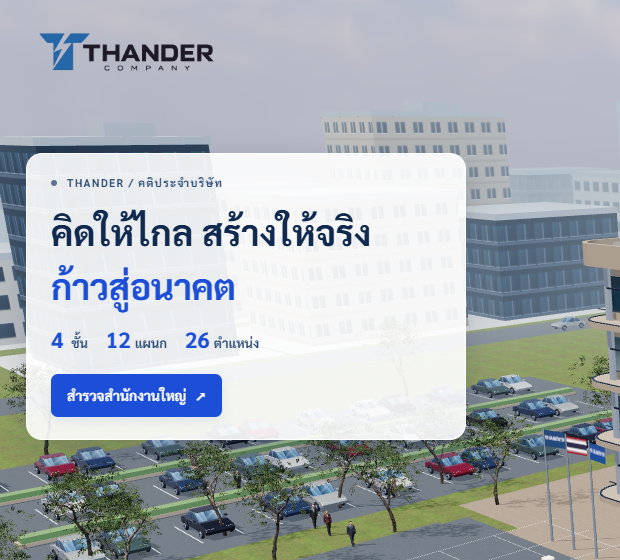
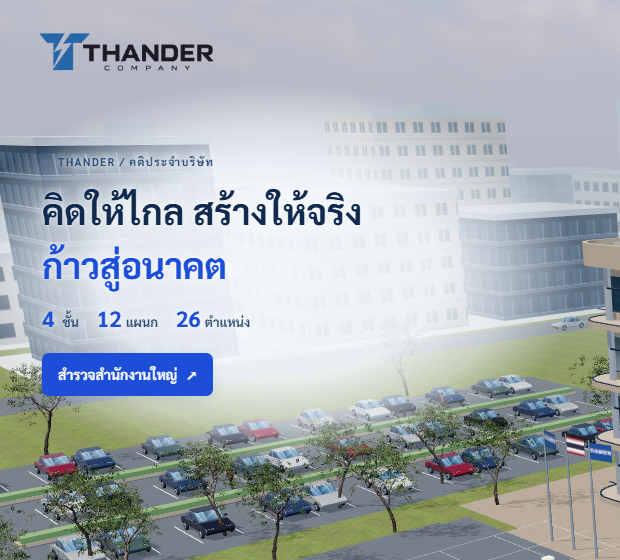
THANDER: hero without white box

diff --git a/Portfolio.html b/Portfolio.html
@@ -3445,7 +3445,7 @@ a:focus-visible, button:focus-visible, input:focus-visible { outline: 2px solid 
           <div style="padding:1.75rem;">
             <span style="display:inline-block;font-size:0.68rem;font-weight:700;letter-spacing:0.12em;color:#93bfff;border:1px solid #93bfff44;border-radius:99px;padding:0.25rem 0.75rem;margin-bottom:1rem;">3D Campus · Workflow · CEO Workspace</span>
             <h3 class="bento-title" style="margin-bottom:0.65rem;">THANDER Company</h3>
-            <p style="font-size:0.9rem;line-height:1.85;color:rgba(248,250,252,0.72);margin:0 0 1.25rem;">สำนักงานใหญ่ 3D ออกแบบใหม่ระดับบริษัทชั้นนำ 4 ชั้น 12 ฝ่าย 26 ตำแหน่ง (แผนกละ 2 คน รับหน้าที่เดิมครบ 66 หน้าที่) รอบบริษัทมีเมือง 50 ตึกพร้อมถนน หน้าต่างเปิดไฟยามค่ำคืน ต้นไม้ใบหนาเปลี่ยนได้ 4 ฤดู (ใบไม้ผลิ ร้อน ใบไม้ร่วง หนาว) และฤดูหนาวมีหิมะตก เพิ่มฤดูฝนแบบไทย (ฝนตก ถนนเปียก ฟ้าครึ้ม) รถวิ่งบนถนนรอบเมือง กลางวัน/กลางคืนตามเวลากรุงเทพจริง และโหมดประหยัดสำหรับมือถือ เปิดเว็บมามีแอนิเมชันจัดเต็ม: ม่านโลโก้แยกบน-ล่างพร้อม % โหลดจริง กล้องกวาดโค้งลงจากฟ้าเข้าหาบริษัท ระหว่างทางเมืองและต้นไม้งอกขึ้นจากพื้น ชั้นตึกหล่นกระแทกทีละชั้นพร้อมคลื่นกระแทกและจอสั่น สายฟ้าฟาดลงเมืองตลอดทาง พอถึงตึกสายฟ้าลูกใหญ่ฟาดลงหลังคาพร้อมจอขาววาบ (เตรียมและคอมไพล์เอฟเฟกต์ไว้ก่อนหลังม่าน เล่นได้ไม่ค้าง) แล้วคติบริษัทและตัวเลข 4 ชั้น · 12 แผนก · 26 ตำแหน่ง นับขึ้น บนการ์ดพื้นหลังที่อ่านง่ายทั้งกลางวันและกลางคืน ขนาดห้องตามมาตรฐานออฟฟิศจริง มีล็อบบี้ ห้องประชุมชั้นละห้อง (12/8/6 ที่นั่ง) ผนังห้องและผนังอาคารแบบทึบ Phone Booth และ Café ทุกชั้น พนักงานเดินไปมาระหว่างแผนกตลอดเวลา และหน้าแรกมีคนเดินเข้า–ออกอาคาร พนักงานทุกคนมีชื่อและชื่อเล่น (สมมติ) บนป้ายตั้งสองหน้าขนาดใหญ่ พนักงานใช้โมเดลคน 3D แบบมีโครงกระดูกและผิวต่อเนื่อง มีสรีระ ใบหน้า ผิวหนัง ทรงผม สูท มือและรองเท้า จาก Microsoft Rocketbox (MIT) ตัวนั่งและตัวเดินคงรูปลักษณ์คนเดียวกัน พร้อมต้นไม้ 3D Tree Small 02 จาก Poly Haven (CC0) ทั้ง 51 ต้น มีลำต้น กิ่งและใบที่ผู้สร้างจัดทำจริง สลับความละเอียด 3 ระดับตามระยะกล้อง ผนัง พื้นปู และหญ้าใช้วัสดุภาพถ่ายพร้อมแผนที่ความนูนและความหยาบ กระจกสะท้อนภูมิทัศน์ในฉากและใช้แสงท้องฟ้า HDRI รถตัวถังโค้งพร้อมล้อ กระจก และไฟ ถนนแอสฟัลต์มีขอบทางและท่อระบายน้ำ ผิวหิน คอนกรีต ไม้ หญ้า และกระจกอาคารมีรายละเอียด แสงและเงาช่วยแสดงความลึก และมีบทสนทนาขึ้นเป็นข้อความทุกครั้งที่เดินมารับหรือส่งงานกับ CEO พร้อมคติ “คิดให้ไกล สร้างให้จริง ก้าวสู่อนาคต” กลับเป็นสองบรรทัดขนาดเล็กลง ตัวอักษรนูนสามมิติแบบไม่มีกรอบ พนักงานทั้ง 66 บทบาททุกแผนกใช้หลัก “หา · บอก · ปล่อย” ครบ 9 ข้อร่วมกัน เปิดอ่านในข้อมูลพนักงานและ Workflow พร้อมคำสั่ง AI ที่ทวนโจทย์ ใช้ตัวอย่าง ตรวจตามจุดสำคัญ และสรุปส่งต่องานยาว เพิ่มประตูบานพับ 68 บานในห้องทำงานและพื้นที่ปิด พนักงานที่มาเยือนจะหยุดเคาะประตู ขออนุญาต รอผู้รับผิดชอบตอบแล้วจึงเปิดเข้าไป CEO ตอบอนุญาตเข้าห้องอัตโนมัติ และประตูปิดหลังเดินผ่าน ปรับอาคารเป็น 44×32 เมตร ห้องและโต๊ะมีขนาดตามจำนวนคน เพิ่มฝ่ายครีเอทีฟและสื่อชั้น 2 พร้อมกราฟิกดีไซเนอร์และนักตัดต่อวิดีโอ มีโต๊ะ จอออกแบบและไทม์ไลน์ประจำตัว พับกรอบรายละเอียดเพื่อเห็นผังภายในครบทุกชั้น เปิดดูแผนกและหน้าที่ได้เมื่อต้องการ มีคู่มือขั้นตอนการทำงานแบบทางการ 8 หัวข้อ (สถานะงาน หน้าที่ทุกฝ่าย วิธีเขียนโจทย์ แบบทดสอบ) และไดอะแกรม SVG อธิบายการทำงาน มีระบบฝากอนุมัติให้ผู้รักษาการ (G-01) ใช้ AI ตรวจและอนุมัติงานทั่วไปแทนเมื่อ CEO ไม่อยู่ โดยงานสำคัญ 7 เรื่องและงานกฎหมายยังรอ CEO และ CEO ยกเลิกการอนุมัติแทนได้ทุกฝ่าย ห้อง CEO THANDER ชั้น 1 มี CEO ผู้ชายประจำห้องเพียงคนเดียว เมื่อสั่งงาน ตัวแทนแผนกเดินผ่านทางเดินและลิฟต์มารับโจทย์แล้วกลับโต๊ะ เมื่อผลงานพร้อมตรวจจะกลับมานำเสนอ พร้อมเปิดคำตอบและไฟล์ให้ CEO ตรวจรับ มีปุ่มลองฉากตัวอย่างโดยไม่เรียก AI เชื่อมพื้นที่ทำงานส่วนตัว มีตัวเลขสรุป ค้นหา กรอง ลบงาน และกู้คืนจากถังขยะ รีเฟรชหรือออกเข้าใหม่แล้วยังเปิดงานที่บันทึกไว้ได้ทันที พร้อมแจ้งเมื่อดึงสถานะ AI ไม่สำเร็จและตรวจงานเดิมซ้ำได้ ลบงานที่กำลังทำเข้าถังขยะได้แม้บริการ AI ไม่ตอบ โดยหยุดติดตามในเว็บก่อนและแสดงแยกว่าการยกเลิกฝั่ง AI ยืนยันแล้วหรือยัง การกู้คืนไม่ส่งงานให้ AI ใหม่ เพิ่มโหมดสร้างวิดีโอการ์ตูนใหม่จากข้อความ/ภาพด้วย Gemini Omni Flash คลิป 4–10 วินาที 720p ดูราคาประเมินก่อนกดยืนยัน ใช้คีย์ Google แบบเสียเงินแยกและยังต้องตั้งค่าก่อนใช้งานจริง ป้องกันสร้างซ้ำจากการกดซ้ำ แยกเอกสารสตอรีบอร์ดออกจาก MP4 และแก้เส้นทางดาวน์โหลดเอกสาร ผลงานออกมาเป็นไฟล์ Word (.docx), Excel (.xlsx) และ PowerPoint (.pptx) จริงที่อ่านภาษาไทยถูกต้อง และแนบคลิป เพลง หรือรูปเพื่อให้ AI วางแผนตัดต่อแล้วเซิร์ฟเวอร์ตัดต่อเป็นวิดีโอ MP4 จริงด้วย ffmpeg พร้อมซับไตเติลไทย เพลง เฟด และสัดส่วนจอ 16:9/9:16/1:1 เล่นดูได้ในหน้างาน (ตัวอย่าง: คลิปสรุปบอลโลก 2026 แนวนอน 47 วินาที และแนวตั้ง 19 วินาที จากภาพ NASA และแฟนบอลที่อนุญาตใช้ซ้ำ พร้อมเครดิตท้ายคลิป) พร้อมสั่งงาน Claude Opus 5.5 ขอแก้ไข ตรวจรับ และดาวน์โหลด กำหนดวันรับงานแบบวัน/เดือน/ปี พ.ศ. เช่น 21/10/2569 แนบได้สูงสุด 5 ไฟล์ (เอกสาร 10 MB และคลิป/เสียง/รูปรวม 500 MB โดยตัวตัดต่ออ่านเฉพาะช่วงที่ใช้ผ่านลิงก์ลงนามชั่วคราว ไม่ต้องโหลดทั้งไฟล์) ผ่านพื้นที่ส่วนตัว พร้อมแสดงขนาดและความคืบหน้า มีไฟล์ PDF รายชื่อพนักงานทุกแผนก (4 ชั้น 12 แผนก 66 คน พร้อมรหัส ชื่อเล่น และหน้าที่) สร้างจากข้อมูลองค์กรจริงในระบบ มีตัวอย่างแผนคอนเทนต์ 7 วันให้ทดลองโดยไม่ใช้ AI ส่วนงาน AI จริงใช้โควต้า Free Tier ของโปรเจกต์ Google ที่ไม่เปิด Billing และไม่สลับไป OpenAI</p>
+            <p style="font-size:0.9rem;line-height:1.85;color:rgba(248,250,252,0.72);margin:0 0 1.25rem;">สำนักงานใหญ่ 3D ออกแบบใหม่ระดับบริษัทชั้นนำ 4 ชั้น 12 ฝ่าย 26 ตำแหน่ง (แผนกละ 2 คน รับหน้าที่เดิมครบ 66 หน้าที่) รอบบริษัทมีเมือง 50 ตึกพร้อมถนน หน้าต่างเปิดไฟยามค่ำคืน ต้นไม้ใบหนาเปลี่ยนได้ 4 ฤดู (ใบไม้ผลิ ร้อน ใบไม้ร่วง หนาว) และฤดูหนาวมีหิมะตก เพิ่มฤดูฝนแบบไทย (ฝนตก ถนนเปียก ฟ้าครึ้ม) รถวิ่งบนถนนรอบเมือง กลางวัน/กลางคืนตามเวลากรุงเทพจริง และโหมดประหยัดสำหรับมือถือ เปิดเว็บมามีแอนิเมชันจัดเต็ม: ม่านโลโก้แยกบน-ล่างพร้อม % โหลดจริง กล้องกวาดโค้งลงจากฟ้าเข้าหาบริษัท ระหว่างทางเมืองและต้นไม้งอกขึ้นจากพื้น ชั้นตึกหล่นกระแทกทีละชั้นพร้อมคลื่นกระแทกและจอสั่น สายฟ้าฟาดลงเมืองตลอดทาง พอถึงตึกสายฟ้าลูกใหญ่ฟาดลงหลังคาพร้อมจอขาววาบ (เตรียมและคอมไพล์เอฟเฟกต์ไว้ก่อนหลังม่าน เล่นได้ไม่ค้าง) แล้วคติบริษัทและตัวเลข 4 ชั้น · 12 แผนก · 26 ตำแหน่ง นับขึ้น พร้อมแสงจาง ๆ ไม่มีกรอบด้านหลังให้อ่านง่ายทั้งกลางวันและกลางคืน ขนาดห้องตามมาตรฐานออฟฟิศจริง มีล็อบบี้ ห้องประชุมชั้นละห้อง (12/8/6 ที่นั่ง) ผนังห้องและผนังอาคารแบบทึบ Phone Booth และ Café ทุกชั้น พนักงานเดินไปมาระหว่างแผนกตลอดเวลา และหน้าแรกมีคนเดินเข้า–ออกอาคาร พนักงานทุกคนมีชื่อและชื่อเล่น (สมมติ) บนป้ายตั้งสองหน้าขนาดใหญ่ พนักงานใช้โมเดลคน 3D แบบมีโครงกระดูกและผิวต่อเนื่อง มีสรีระ ใบหน้า ผิวหนัง ทรงผม สูท มือและรองเท้า จาก Microsoft Rocketbox (MIT) ตัวนั่งและตัวเดินคงรูปลักษณ์คนเดียวกัน พร้อมต้นไม้ 3D Tree Small 02 จาก Poly Haven (CC0) ทั้ง 51 ต้น มีลำต้น กิ่งและใบที่ผู้สร้างจัดทำจริง สลับความละเอียด 3 ระดับตามระยะกล้อง ผนัง พื้นปู และหญ้าใช้วัสดุภาพถ่ายพร้อมแผนที่ความนูนและความหยาบ กระจกสะท้อนภูมิทัศน์ในฉากและใช้แสงท้องฟ้า HDRI รถตัวถังโค้งพร้อมล้อ กระจก และไฟ ถนนแอสฟัลต์มีขอบทางและท่อระบายน้ำ ผิวหิน คอนกรีต ไม้ หญ้า และกระจกอาคารมีรายละเอียด แสงและเงาช่วยแสดงความลึก และมีบทสนทนาขึ้นเป็นข้อความทุกครั้งที่เดินมารับหรือส่งงานกับ CEO พร้อมคติ “คิดให้ไกล สร้างให้จริง ก้าวสู่อนาคต” กลับเป็นสองบรรทัดขนาดเล็กลง ตัวอักษรนูนสามมิติแบบไม่มีกรอบ พนักงานทั้ง 66 บทบาททุกแผนกใช้หลัก “หา · บอก · ปล่อย” ครบ 9 ข้อร่วมกัน เปิดอ่านในข้อมูลพนักงานและ Workflow พร้อมคำสั่ง AI ที่ทวนโจทย์ ใช้ตัวอย่าง ตรวจตามจุดสำคัญ และสรุปส่งต่องานยาว เพิ่มประตูบานพับ 68 บานในห้องทำงานและพื้นที่ปิด พนักงานที่มาเยือนจะหยุดเคาะประตู ขออนุญาต รอผู้รับผิดชอบตอบแล้วจึงเปิดเข้าไป CEO ตอบอนุญาตเข้าห้องอัตโนมัติ และประตูปิดหลังเดินผ่าน ปรับอาคารเป็น 44×32 เมตร ห้องและโต๊ะมีขนาดตามจำนวนคน เพิ่มฝ่ายครีเอทีฟและสื่อชั้น 2 พร้อมกราฟิกดีไซเนอร์และนักตัดต่อวิดีโอ มีโต๊ะ จอออกแบบและไทม์ไลน์ประจำตัว พับกรอบรายละเอียดเพื่อเห็นผังภายในครบทุกชั้น เปิดดูแผนกและหน้าที่ได้เมื่อต้องการ มีคู่มือขั้นตอนการทำงานแบบทางการ 8 หัวข้อ (สถานะงาน หน้าที่ทุกฝ่าย วิธีเขียนโจทย์ แบบทดสอบ) และไดอะแกรม SVG อธิบายการทำงาน มีระบบฝากอนุมัติให้ผู้รักษาการ (G-01) ใช้ AI ตรวจและอนุมัติงานทั่วไปแทนเมื่อ CEO ไม่อยู่ โดยงานสำคัญ 7 เรื่องและงานกฎหมายยังรอ CEO และ CEO ยกเลิกการอนุมัติแทนได้ทุกฝ่าย ห้อง CEO THANDER ชั้น 1 มี CEO ผู้ชายประจำห้องเพียงคนเดียว เมื่อสั่งงาน ตัวแทนแผนกเดินผ่านทางเดินและลิฟต์มารับโจทย์แล้วกลับโต๊ะ เมื่อผลงานพร้อมตรวจจะกลับมานำเสนอ พร้อมเปิดคำตอบและไฟล์ให้ CEO ตรวจรับ มีปุ่มลองฉากตัวอย่างโดยไม่เรียก AI เชื่อมพื้นที่ทำงานส่วนตัว มีตัวเลขสรุป ค้นหา กรอง ลบงาน และกู้คืนจากถังขยะ รีเฟรชหรือออกเข้าใหม่แล้วยังเปิดงานที่บันทึกไว้ได้ทันที พร้อมแจ้งเมื่อดึงสถานะ AI ไม่สำเร็จและตรวจงานเดิมซ้ำได้ ลบงานที่กำลังทำเข้าถังขยะได้แม้บริการ AI ไม่ตอบ โดยหยุดติดตามในเว็บก่อนและแสดงแยกว่าการยกเลิกฝั่ง AI ยืนยันแล้วหรือยัง การกู้คืนไม่ส่งงานให้ AI ใหม่ เพิ่มโหมดสร้างวิดีโอการ์ตูนใหม่จากข้อความ/ภาพด้วย Gemini Omni Flash คลิป 4–10 วินาที 720p ดูราคาประเมินก่อนกดยืนยัน ใช้คีย์ Google แบบเสียเงินแยกและยังต้องตั้งค่าก่อนใช้งานจริง ป้องกันสร้างซ้ำจากการกดซ้ำ แยกเอกสารสตอรีบอร์ดออกจาก MP4 และแก้เส้นทางดาวน์โหลดเอกสาร ผลงานออกมาเป็นไฟล์ Word (.docx), Excel (.xlsx) และ PowerPoint (.pptx) จริงที่อ่านภาษาไทยถูกต้อง และแนบคลิป เพลง หรือรูปเพื่อให้ AI วางแผนตัดต่อแล้วเซิร์ฟเวอร์ตัดต่อเป็นวิดีโอ MP4 จริงด้วย ffmpeg พร้อมซับไตเติลไทย เพลง เฟด และสัดส่วนจอ 16:9/9:16/1:1 เล่นดูได้ในหน้างาน (ตัวอย่าง: คลิปสรุปบอลโลก 2026 แนวนอน 47 วินาที และแนวตั้ง 19 วินาที จากภาพ NASA และแฟนบอลที่อนุญาตใช้ซ้ำ พร้อมเครดิตท้ายคลิป) พร้อมสั่งงาน Claude Opus 5.5 ขอแก้ไข ตรวจรับ และดาวน์โหลด กำหนดวันรับงานแบบวัน/เดือน/ปี พ.ศ. เช่น 21/10/2569 แนบได้สูงสุด 5 ไฟล์ (เอกสาร 10 MB และคลิป/เสียง/รูปรวม 500 MB โดยตัวตัดต่ออ่านเฉพาะช่วงที่ใช้ผ่านลิงก์ลงนามชั่วคราว ไม่ต้องโหลดทั้งไฟล์) ผ่านพื้นที่ส่วนตัว พร้อมแสดงขนาดและความคืบหน้า มีไฟล์ PDF รายชื่อพนักงานทุกแผนก (4 ชั้น 12 แผนก 66 คน พร้อมรหัส ชื่อเล่น และหน้าที่) สร้างจากข้อมูลองค์กรจริงในระบบ มีตัวอย่างแผนคอนเทนต์ 7 วันให้ทดลองโดยไม่ใช้ AI ส่วนงาน AI จริงใช้โควต้า Free Tier ของโปรเจกต์ Google ที่ไม่เปิด Billing และไม่สลับไป OpenAI</p>
             <div style="display:flex;flex-wrap:wrap;gap:0.4rem;margin-bottom:1.5rem;">
               <span style="font-size:0.7rem;padding:0.25rem 0.7rem;border:1px solid #93bfff4d;color:#93bfff;border-radius:99px;">Three.js</span><span style="font-size:0.7rem;padding:0.25rem 0.7rem;border:1px solid #93bfff4d;color:#93bfff;border-radius:99px;">Claude Opus 5.5</span><span style="font-size:0.7rem;padding:0.25rem 0.7rem;border:1px solid #93bfff4d;color:#93bfff;border-radius:99px;">Vercel Functions</span><span style="font-size:0.7rem;padding:0.25rem 0.7rem;border:1px solid #93bfff4d;color:#93bfff;border-radius:99px;">Private Blob</span><span style="font-size:0.7rem;padding:0.25rem 0.7rem;border:1px solid #93bfff4d;color:#93bfff;border-radius:99px;">ffmpeg</span>
             </div>

diff --git a/index.html b/index.html
@@ -3445,7 +3445,7 @@ a:focus-visible, button:focus-visible, input:focus-visible { outline: 2px solid 
           <div style="padding:1.75rem;">
             <span style="display:inline-block;font-size:0.68rem;font-weight:700;letter-spacing:0.12em;color:#93bfff;border:1px solid #93bfff44;border-radius:99px;padding:0.25rem 0.75rem;margin-bottom:1rem;">3D Campus · Workflow · CEO Workspace</span>
             <h3 class="bento-title" style="margin-bottom:0.65rem;">THANDER Company</h3>
-            <p style="font-size:0.9rem;line-height:1.85;color:rgba(248,250,252,0.72);margin:0 0 1.25rem;">สำนักงานใหญ่ 3D ออกแบบใหม่ระดับบริษัทชั้นนำ 4 ชั้น 12 ฝ่าย 26 ตำแหน่ง (แผนกละ 2 คน รับหน้าที่เดิมครบ 66 หน้าที่) รอบบริษัทมีเมือง 50 ตึกพร้อมถนน หน้าต่างเปิดไฟยามค่ำคืน ต้นไม้ใบหนาเปลี่ยนได้ 4 ฤดู (ใบไม้ผลิ ร้อน ใบไม้ร่วง หนาว) และฤดูหนาวมีหิมะตก เพิ่มฤดูฝนแบบไทย (ฝนตก ถนนเปียก ฟ้าครึ้ม) รถวิ่งบนถนนรอบเมือง กลางวัน/กลางคืนตามเวลากรุงเทพจริง และโหมดประหยัดสำหรับมือถือ เปิดเว็บมามีแอนิเมชันจัดเต็ม: ม่านโลโก้แยกบน-ล่างพร้อม % โหลดจริง กล้องกวาดโค้งลงจากฟ้าเข้าหาบริษัท ระหว่างทางเมืองและต้นไม้งอกขึ้นจากพื้น ชั้นตึกหล่นกระแทกทีละชั้นพร้อมคลื่นกระแทกและจอสั่น สายฟ้าฟาดลงเมืองตลอดทาง พอถึงตึกสายฟ้าลูกใหญ่ฟาดลงหลังคาพร้อมจอขาววาบ (เตรียมและคอมไพล์เอฟเฟกต์ไว้ก่อนหลังม่าน เล่นได้ไม่ค้าง) แล้วคติบริษัทและตัวเลข 4 ชั้น · 12 แผนก · 26 ตำแหน่ง นับขึ้น บนการ์ดพื้นหลังที่อ่านง่ายทั้งกลางวันและกลางคืน ขนาดห้องตามมาตรฐานออฟฟิศจริง มีล็อบบี้ ห้องประชุมชั้นละห้อง (12/8/6 ที่นั่ง) ผนังห้องและผนังอาคารแบบทึบ Phone Booth และ Café ทุกชั้น พนักงานเดินไปมาระหว่างแผนกตลอดเวลา และหน้าแรกมีคนเดินเข้า–ออกอาคาร พนักงานทุกคนมีชื่อและชื่อเล่น (สมมติ) บนป้ายตั้งสองหน้าขนาดใหญ่ พนักงานใช้โมเดลคน 3D แบบมีโครงกระดูกและผิวต่อเนื่อง มีสรีระ ใบหน้า ผิวหนัง ทรงผม สูท มือและรองเท้า จาก Microsoft Rocketbox (MIT) ตัวนั่งและตัวเดินคงรูปลักษณ์คนเดียวกัน พร้อมต้นไม้ 3D Tree Small 02 จาก Poly Haven (CC0) ทั้ง 51 ต้น มีลำต้น กิ่งและใบที่ผู้สร้างจัดทำจริง สลับความละเอียด 3 ระดับตามระยะกล้อง ผนัง พื้นปู และหญ้าใช้วัสดุภาพถ่ายพร้อมแผนที่ความนูนและความหยาบ กระจกสะท้อนภูมิทัศน์ในฉากและใช้แสงท้องฟ้า HDRI รถตัวถังโค้งพร้อมล้อ กระจก และไฟ ถนนแอสฟัลต์มีขอบทางและท่อระบายน้ำ ผิวหิน คอนกรีต ไม้ หญ้า และกระจกอาคารมีรายละเอียด แสงและเงาช่วยแสดงความลึก และมีบทสนทนาขึ้นเป็นข้อความทุกครั้งที่เดินมารับหรือส่งงานกับ CEO พร้อมคติ “คิดให้ไกล สร้างให้จริง ก้าวสู่อนาคต” กลับเป็นสองบรรทัดขนาดเล็กลง ตัวอักษรนูนสามมิติแบบไม่มีกรอบ พนักงานทั้ง 66 บทบาททุกแผนกใช้หลัก “หา · บอก · ปล่อย” ครบ 9 ข้อร่วมกัน เปิดอ่านในข้อมูลพนักงานและ Workflow พร้อมคำสั่ง AI ที่ทวนโจทย์ ใช้ตัวอย่าง ตรวจตามจุดสำคัญ และสรุปส่งต่องานยาว เพิ่มประตูบานพับ 68 บานในห้องทำงานและพื้นที่ปิด พนักงานที่มาเยือนจะหยุดเคาะประตู ขออนุญาต รอผู้รับผิดชอบตอบแล้วจึงเปิดเข้าไป CEO ตอบอนุญาตเข้าห้องอัตโนมัติ และประตูปิดหลังเดินผ่าน ปรับอาคารเป็น 44×32 เมตร ห้องและโต๊ะมีขนาดตามจำนวนคน เพิ่มฝ่ายครีเอทีฟและสื่อชั้น 2 พร้อมกราฟิกดีไซเนอร์และนักตัดต่อวิดีโอ มีโต๊ะ จอออกแบบและไทม์ไลน์ประจำตัว พับกรอบรายละเอียดเพื่อเห็นผังภายในครบทุกชั้น เปิดดูแผนกและหน้าที่ได้เมื่อต้องการ มีคู่มือขั้นตอนการทำงานแบบทางการ 8 หัวข้อ (สถานะงาน หน้าที่ทุกฝ่าย วิธีเขียนโจทย์ แบบทดสอบ) และไดอะแกรม SVG อธิบายการทำงาน มีระบบฝากอนุมัติให้ผู้รักษาการ (G-01) ใช้ AI ตรวจและอนุมัติงานทั่วไปแทนเมื่อ CEO ไม่อยู่ โดยงานสำคัญ 7 เรื่องและงานกฎหมายยังรอ CEO และ CEO ยกเลิกการอนุมัติแทนได้ทุกฝ่าย ห้อง CEO THANDER ชั้น 1 มี CEO ผู้ชายประจำห้องเพียงคนเดียว เมื่อสั่งงาน ตัวแทนแผนกเดินผ่านทางเดินและลิฟต์มารับโจทย์แล้วกลับโต๊ะ เมื่อผลงานพร้อมตรวจจะกลับมานำเสนอ พร้อมเปิดคำตอบและไฟล์ให้ CEO ตรวจรับ มีปุ่มลองฉากตัวอย่างโดยไม่เรียก AI เชื่อมพื้นที่ทำงานส่วนตัว มีตัวเลขสรุป ค้นหา กรอง ลบงาน และกู้คืนจากถังขยะ รีเฟรชหรือออกเข้าใหม่แล้วยังเปิดงานที่บันทึกไว้ได้ทันที พร้อมแจ้งเมื่อดึงสถานะ AI ไม่สำเร็จและตรวจงานเดิมซ้ำได้ ลบงานที่กำลังทำเข้าถังขยะได้แม้บริการ AI ไม่ตอบ โดยหยุดติดตามในเว็บก่อนและแสดงแยกว่าการยกเลิกฝั่ง AI ยืนยันแล้วหรือยัง การกู้คืนไม่ส่งงานให้ AI ใหม่ เพิ่มโหมดสร้างวิดีโอการ์ตูนใหม่จากข้อความ/ภาพด้วย Gemini Omni Flash คลิป 4–10 วินาที 720p ดูราคาประเมินก่อนกดยืนยัน ใช้คีย์ Google แบบเสียเงินแยกและยังต้องตั้งค่าก่อนใช้งานจริง ป้องกันสร้างซ้ำจากการกดซ้ำ แยกเอกสารสตอรีบอร์ดออกจาก MP4 และแก้เส้นทางดาวน์โหลดเอกสาร ผลงานออกมาเป็นไฟล์ Word (.docx), Excel (.xlsx) และ PowerPoint (.pptx) จริงที่อ่านภาษาไทยถูกต้อง และแนบคลิป เพลง หรือรูปเพื่อให้ AI วางแผนตัดต่อแล้วเซิร์ฟเวอร์ตัดต่อเป็นวิดีโอ MP4 จริงด้วย ffmpeg พร้อมซับไตเติลไทย เพลง เฟด และสัดส่วนจอ 16:9/9:16/1:1 เล่นดูได้ในหน้างาน (ตัวอย่าง: คลิปสรุปบอลโลก 2026 แนวนอน 47 วินาที และแนวตั้ง 19 วินาที จากภาพ NASA และแฟนบอลที่อนุญาตใช้ซ้ำ พร้อมเครดิตท้ายคลิป) พร้อมสั่งงาน Claude Opus 5.5 ขอแก้ไข ตรวจรับ และดาวน์โหลด กำหนดวันรับงานแบบวัน/เดือน/ปี พ.ศ. เช่น 21/10/2569 แนบได้สูงสุด 5 ไฟล์ (เอกสาร 10 MB และคลิป/เสียง/รูปรวม 500 MB โดยตัวตัดต่ออ่านเฉพาะช่วงที่ใช้ผ่านลิงก์ลงนามชั่วคราว ไม่ต้องโหลดทั้งไฟล์) ผ่านพื้นที่ส่วนตัว พร้อมแสดงขนาดและความคืบหน้า มีไฟล์ PDF รายชื่อพนักงานทุกแผนก (4 ชั้น 12 แผนก 66 คน พร้อมรหัส ชื่อเล่น และหน้าที่) สร้างจากข้อมูลองค์กรจริงในระบบ มีตัวอย่างแผนคอนเทนต์ 7 วันให้ทดลองโดยไม่ใช้ AI ส่วนงาน AI จริงใช้โควต้า Free Tier ของโปรเจกต์ Google ที่ไม่เปิด Billing และไม่สลับไป OpenAI</p>
+            <p style="font-size:0.9rem;line-height:1.85;color:rgba(248,250,252,0.72);margin:0 0 1.25rem;">สำนักงานใหญ่ 3D ออกแบบใหม่ระดับบริษัทชั้นนำ 4 ชั้น 12 ฝ่าย 26 ตำแหน่ง (แผนกละ 2 คน รับหน้าที่เดิมครบ 66 หน้าที่) รอบบริษัทมีเมือง 50 ตึกพร้อมถนน หน้าต่างเปิดไฟยามค่ำคืน ต้นไม้ใบหนาเปลี่ยนได้ 4 ฤดู (ใบไม้ผลิ ร้อน ใบไม้ร่วง หนาว) และฤดูหนาวมีหิมะตก เพิ่มฤดูฝนแบบไทย (ฝนตก ถนนเปียก ฟ้าครึ้ม) รถวิ่งบนถนนรอบเมือง กลางวัน/กลางคืนตามเวลากรุงเทพจริง และโหมดประหยัดสำหรับมือถือ เปิดเว็บมามีแอนิเมชันจัดเต็ม: ม่านโลโก้แยกบน-ล่างพร้อม % โหลดจริง กล้องกวาดโค้งลงจากฟ้าเข้าหาบริษัท ระหว่างทางเมืองและต้นไม้งอกขึ้นจากพื้น ชั้นตึกหล่นกระแทกทีละชั้นพร้อมคลื่นกระแทกและจอสั่น สายฟ้าฟาดลงเมืองตลอดทาง พอถึงตึกสายฟ้าลูกใหญ่ฟาดลงหลังคาพร้อมจอขาววาบ (เตรียมและคอมไพล์เอฟเฟกต์ไว้ก่อนหลังม่าน เล่นได้ไม่ค้าง) แล้วคติบริษัทและตัวเลข 4 ชั้น · 12 แผนก · 26 ตำแหน่ง นับขึ้น พร้อมแสงจาง ๆ ไม่มีกรอบด้านหลังให้อ่านง่ายทั้งกลางวันและกลางคืน ขนาดห้องตามมาตรฐานออฟฟิศจริง มีล็อบบี้ ห้องประชุมชั้นละห้อง (12/8/6 ที่นั่ง) ผนังห้องและผนังอาคารแบบทึบ Phone Booth และ Café ทุกชั้น พนักงานเดินไปมาระหว่างแผนกตลอดเวลา และหน้าแรกมีคนเดินเข้า–ออกอาคาร พนักงานทุกคนมีชื่อและชื่อเล่น (สมมติ) บนป้ายตั้งสองหน้าขนาดใหญ่ พนักงานใช้โมเดลคน 3D แบบมีโครงกระดูกและผิวต่อเนื่อง มีสรีระ ใบหน้า ผิวหนัง ทรงผม สูท มือและรองเท้า จาก Microsoft Rocketbox (MIT) ตัวนั่งและตัวเดินคงรูปลักษณ์คนเดียวกัน พร้อมต้นไม้ 3D Tree Small 02 จาก Poly Haven (CC0) ทั้ง 51 ต้น มีลำต้น กิ่งและใบที่ผู้สร้างจัดทำจริง สลับความละเอียด 3 ระดับตามระยะกล้อง ผนัง พื้นปู และหญ้าใช้วัสดุภาพถ่ายพร้อมแผนที่ความนูนและความหยาบ กระจกสะท้อนภูมิทัศน์ในฉากและใช้แสงท้องฟ้า HDRI รถตัวถังโค้งพร้อมล้อ กระจก และไฟ ถนนแอสฟัลต์มีขอบทางและท่อระบายน้ำ ผิวหิน คอนกรีต ไม้ หญ้า และกระจกอาคารมีรายละเอียด แสงและเงาช่วยแสดงความลึก และมีบทสนทนาขึ้นเป็นข้อความทุกครั้งที่เดินมารับหรือส่งงานกับ CEO พร้อมคติ “คิดให้ไกล สร้างให้จริง ก้าวสู่อนาคต” กลับเป็นสองบรรทัดขนาดเล็กลง ตัวอักษรนูนสามมิติแบบไม่มีกรอบ พนักงานทั้ง 66 บทบาททุกแผนกใช้หลัก “หา · บอก · ปล่อย” ครบ 9 ข้อร่วมกัน เปิดอ่านในข้อมูลพนักงานและ Workflow พร้อมคำสั่ง AI ที่ทวนโจทย์ ใช้ตัวอย่าง ตรวจตามจุดสำคัญ และสรุปส่งต่องานยาว เพิ่มประตูบานพับ 68 บานในห้องทำงานและพื้นที่ปิด พนักงานที่มาเยือนจะหยุดเคาะประตู ขออนุญาต รอผู้รับผิดชอบตอบแล้วจึงเปิดเข้าไป CEO ตอบอนุญาตเข้าห้องอัตโนมัติ และประตูปิดหลังเดินผ่าน ปรับอาคารเป็น 44×32 เมตร ห้องและโต๊ะมีขนาดตามจำนวนคน เพิ่มฝ่ายครีเอทีฟและสื่อชั้น 2 พร้อมกราฟิกดีไซเนอร์และนักตัดต่อวิดีโอ มีโต๊ะ จอออกแบบและไทม์ไลน์ประจำตัว พับกรอบรายละเอียดเพื่อเห็นผังภายในครบทุกชั้น เปิดดูแผนกและหน้าที่ได้เมื่อต้องการ มีคู่มือขั้นตอนการทำงานแบบทางการ 8 หัวข้อ (สถานะงาน หน้าที่ทุกฝ่าย วิธีเขียนโจทย์ แบบทดสอบ) และไดอะแกรม SVG อธิบายการทำงาน มีระบบฝากอนุมัติให้ผู้รักษาการ (G-01) ใช้ AI ตรวจและอนุมัติงานทั่วไปแทนเมื่อ CEO ไม่อยู่ โดยงานสำคัญ 7 เรื่องและงานกฎหมายยังรอ CEO และ CEO ยกเลิกการอนุมัติแทนได้ทุกฝ่าย ห้อง CEO THANDER ชั้น 1 มี CEO ผู้ชายประจำห้องเพียงคนเดียว เมื่อสั่งงาน ตัวแทนแผนกเดินผ่านทางเดินและลิฟต์มารับโจทย์แล้วกลับโต๊ะ เมื่อผลงานพร้อมตรวจจะกลับมานำเสนอ พร้อมเปิดคำตอบและไฟล์ให้ CEO ตรวจรับ มีปุ่มลองฉากตัวอย่างโดยไม่เรียก AI เชื่อมพื้นที่ทำงานส่วนตัว มีตัวเลขสรุป ค้นหา กรอง ลบงาน และกู้คืนจากถังขยะ รีเฟรชหรือออกเข้าใหม่แล้วยังเปิดงานที่บันทึกไว้ได้ทันที พร้อมแจ้งเมื่อดึงสถานะ AI ไม่สำเร็จและตรวจงานเดิมซ้ำได้ ลบงานที่กำลังทำเข้าถังขยะได้แม้บริการ AI ไม่ตอบ โดยหยุดติดตามในเว็บก่อนและแสดงแยกว่าการยกเลิกฝั่ง AI ยืนยันแล้วหรือยัง การกู้คืนไม่ส่งงานให้ AI ใหม่ เพิ่มโหมดสร้างวิดีโอการ์ตูนใหม่จากข้อความ/ภาพด้วย Gemini Omni Flash คลิป 4–10 วินาที 720p ดูราคาประเมินก่อนกดยืนยัน ใช้คีย์ Google แบบเสียเงินแยกและยังต้องตั้งค่าก่อนใช้งานจริง ป้องกันสร้างซ้ำจากการกดซ้ำ แยกเอกสารสตอรีบอร์ดออกจาก MP4 และแก้เส้นทางดาวน์โหลดเอกสาร ผลงานออกมาเป็นไฟล์ Word (.docx), Excel (.xlsx) และ PowerPoint (.pptx) จริงที่อ่านภาษาไทยถูกต้อง และแนบคลิป เพลง หรือรูปเพื่อให้ AI วางแผนตัดต่อแล้วเซิร์ฟเวอร์ตัดต่อเป็นวิดีโอ MP4 จริงด้วย ffmpeg พร้อมซับไตเติลไทย เพลง เฟด และสัดส่วนจอ 16:9/9:16/1:1 เล่นดูได้ในหน้างาน (ตัวอย่าง: คลิปสรุปบอลโลก 2026 แนวนอน 47 วินาที และแนวตั้ง 19 วินาที จากภาพ NASA และแฟนบอลที่อนุญาตใช้ซ้ำ พร้อมเครดิตท้ายคลิป) พร้อมสั่งงาน Claude Opus 5.5 ขอแก้ไข ตรวจรับ และดาวน์โหลด กำหนดวันรับงานแบบวัน/เดือน/ปี พ.ศ. เช่น 21/10/2569 แนบได้สูงสุด 5 ไฟล์ (เอกสาร 10 MB และคลิป/เสียง/รูปรวม 500 MB โดยตัวตัดต่ออ่านเฉพาะช่วงที่ใช้ผ่านลิงก์ลงนามชั่วคราว ไม่ต้องโหลดทั้งไฟล์) ผ่านพื้นที่ส่วนตัว พร้อมแสดงขนาดและความคืบหน้า มีไฟล์ PDF รายชื่อพนักงานทุกแผนก (4 ชั้น 12 แผนก 66 คน พร้อมรหัส ชื่อเล่น และหน้าที่) สร้างจากข้อมูลองค์กรจริงในระบบ มีตัวอย่างแผนคอนเทนต์ 7 วันให้ทดลองโดยไม่ใช้ AI ส่วนงาน AI จริงใช้โควต้า Free Tier ของโปรเจกต์ Google ที่ไม่เปิด Billing และไม่สลับไป OpenAI</p>
             <div style="display:flex;flex-wrap:wrap;gap:0.4rem;margin-bottom:1.5rem;">
               <span style="font-size:0.7rem;padding:0.25rem 0.7rem;border:1px solid #93bfff4d;color:#93bfff;border-radius:99px;">Three.js</span><span style="font-size:0.7rem;padding:0.25rem 0.7rem;border:1px solid #93bfff4d;color:#93bfff;border-radius:99px;">Claude Opus 5.5</span><span style="font-size:0.7rem;padding:0.25rem 0.7rem;border:1px solid #93bfff4d;color:#93bfff;border-radius:99px;">Vercel Functions</span><span style="font-size:0.7rem;padding:0.25rem 0.7rem;border:1px solid #93bfff4d;color:#93bfff;border-radius:99px;">Private Blob</span><span style="font-size:0.7rem;padding:0.25rem 0.7rem;border:1px solid #93bfff4d;color:#93bfff;border-radius:99px;">ffmpeg</span>
             </div>

diff --git a/README.md b/README.md
@@ -147,3 +147,5 @@ THANDER update · 22 October 2026 (8): removed the large THANDER COMPANY title f
 THANDER update · 22 October 2026 (9): fireworks removed from the opening at the user's request; a few warm-up frames now render behind the curtain before the clock starts, so the first frame no longer stalls.
 
 THANDER update · 22 October 2026 (10): the homepage motto now sits on a readable card (frosted white by day, deep navy at night) with darker text and no stacked shadows, so the 3D city behind no longer competes with it ([hero card](images/projects/thander-hero-card.png)).
+
+THANDER update · 22 October 2026 (11): the hero card was replaced by an edge-less soft glow behind the motto plus a thin letter halo (no white box), keeping it readable by day and night ([hero](images/projects/thander-hero-card.png)).
